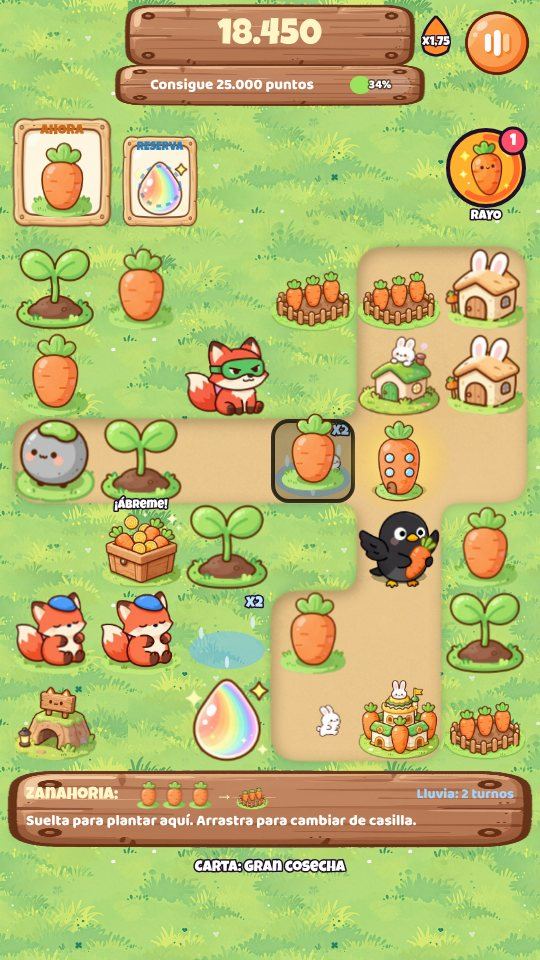
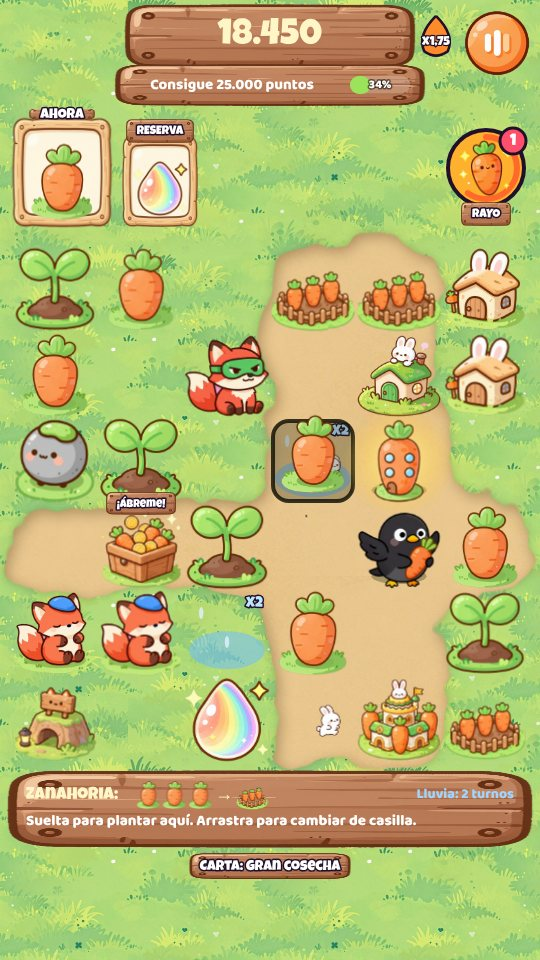
alfa e5f4e06: Fans of Merge: borde del camino ondulado como en Triple Town; rótulos en tablill

diff --git a/alfa/demos/merge/js/pintar.js b/alfa/demos/merge/js/pintar.js
@@ -49,7 +49,7 @@ function mgPintaMarcador(c, t) {
     c.fillStyle = m >= 2 ? '#ff4f2e' : '#ff8a2a'; c.fill(); c.lineWidth = 3.5; c.strokeStyle = OL; c.stroke();
     mgTexto(c, 'x' + fmtV(m), 0, 6, 17, '#fff', 'center', OL); c.restore();
   }
-  if (P.nivel) mgPintaObjNivel(c, t);
+  if (P.nivel) { mgPintaObjNivel(c, t); mgEtiqueta(c, tr('Nivel {n}', { n: P.nivel.id }), 270, 66, 11); }
   else {
   const O = mgObjetivo(), ok = O.de ? clamp((P.pts - O.desde) / (O.de - O.desde), 0, 1) : 1;
   if (!mgImg(c, 'TABLON', 114, 64, 312, 42)) mgPanel(c, 120, 68, 300, 34, 14, MG_PILDORA, null);
@@ -66,20 +66,19 @@ function mgPintaMarcador(c, t) {
   // la pieza actual (también va con el dedo por el tablero)
   const fila = 116;
   if (!mgImg(c, 'MARCO', 8, fila - 4, 108, 120)) mgPanel(c, 12, fila, 100, 112, 20, 'rgba(255,248,230,.94)', OL, 3);
-  mgTexto(c, tr('AHORA'), 62, fila + 15, 14, '#c96a1e', 'center', null);
+  mgEtiqueta(c, tr('AHORA'), 62, fila - 2, 14);
   mgDibujaPieza(c, P.actual, 62, fila + 66 + Math.sin(t * 3) * 2, 82, k);
   let x = 122;
   if (mgTiene('lince')) {
     if (!mgImg(c, 'MARCO', x - 3, fila + 15, 76, 100)) mgPanel(c, x, fila + 18, 70, 94, 16, 'rgba(255,248,230,.8)', OL, 3);
-    mgTexto(c, tr('LUEGO'), x + 35, fila + 32, 12, '#3fa89c', 'center', null);
+    mgEtiqueta(c, tr('LUEGO'), x + 35, fila + 15, 12);
     mgDibujaPieza(c, P.cola, x + 35, fila + 72, 58, k); x += 80;
   }
   P.reserva.forEach((r, i) => {
     if (!mgImg(c, 'MARCO', x - 3, fila + 15, 82, 100)) mgPanel(c, x, fila + 18, 76, 94, 16, r ? 'rgba(220,245,255,.96)' : 'rgba(220,245,255,.7)', OL, 3);
-    mgTexto(c, tr('RESERVA'), x + 38, fila + 32, 12, '#2e7fb8', 'center', null);
+    mgEtiqueta(c, tr('RESERVA'), x + 38, fila + 15, 12);
     if (r) mgDibujaPieza(c, r, x + 38, fila + 72, 60, k);
-    if (P.reservaEspera > 0) { mgPanel(c, x, fila + 18, 76, 94, 16, 'rgba(20,30,10,.45)', null); mgTexto(c, String(P.reservaEspera), x + 38, fila + 70, 34, '#fff'); }
-    else { c.setLineDash([5, 5]); c.beginPath(); c.arc(x + 38, fila + 70, 20, 0, MG_TAU); c.strokeStyle = 'rgba(46,127,184,.55)'; c.lineWidth = 3; c.stroke(); c.setLineDash([]); }
+    if (P.reservaEspera > 0) { mgPanel(c, x + 6, fila + 26, 70, 82, 12, 'rgba(20,30,10,.45)', null); mgTexto(c, String(P.reservaEspera), x + 38, fila + 70, 34, '#fff'); }
     mgBoton('reserva' + i, x, fila + 18, 76, 94); x += 86;
   });
   // el Rayo zanahoria: se llena con las fusiones
@@ -89,15 +88,21 @@ function mgPintaMarcador(c, t) {
   if (MG_IMG.RAYO) { c.globalAlpha = listo ? 1 : 0.5; const g = P.modo === 'rayo' ? 1 + Math.sin(t * 10) * 0.08 : 1; mgImg(c, 'RAYO', bx - 30 * g, by - 30 * g, 60 * g, 60 * g); c.globalAlpha = 1; }
   else mgRayoIcono(c, bx, by, listo ? 1 : 0.45, P.modo === 'rayo' ? Math.sin(t * 10) * 0.15 : 0);
   if (P.cargas) { c.beginPath(); c.arc(bx + 27, by - 27, 13, 0, MG_TAU); c.fillStyle = '#ff4f6d'; c.fill(); c.lineWidth = 3; c.strokeStyle = OL; c.stroke(); mgTexto(c, String(P.cargas), bx + 27, by - 26, 16, '#fff', 'center', null); }
-  mgTexto(c, tr('RAYO'), bx, by + R + 10, 13, '#fff', 'center', OL);
+  mgEtiqueta(c, tr('RAYO'), bx, by + R + 8, 12);
   mgBoton('rayo', bx - R, by - R, R * 2, R * 2 + 16);
   if (P.tirachinas > 0) {
     const tx = 382, ty = fila + 30;
     mgPanel(c, tx, ty, 58, 58, 16, P.modo === 'tirachinas' ? '#ffd84a' : '#ff8a3d', OL, 3);
     if (!mgImg(c, 'TIRACHINAS', tx + 4, ty + 4, 50, 50)) mgTirachinasIcono(c, tx + 29, ty + 29);
-    mgTexto(c, tr('TIRACHINAS'), tx + 29, ty + 70, 11, '#fff', 'center', OL);
+    mgEtiqueta(c, tr('TIRACHINAS'), tx + 29, ty + 66, 10);
     mgBoton('tirachinas', tx, ty, 58, 76);
   }
+}
+// el rótulo de un marco: una tablilla de madera pintada centrada sobre el borde de arriba, con la letra blanca bordeada
+function mgEtiqueta(c, txt, cx, cy, tam) {
+  c.font = `${tam}px ${FONT_D}`; const w = c.measureText(txt).width + 22, h = tam + 12;
+  if (!mgImg(c, 'TABLON', cx - w / 2, cy - h / 2, w, h)) mgPanel(c, cx - w / 2, cy - h / 2, w, h, 8, '#9a6a3c', OL, 2);
+  mgTexto(c, txt, cx, cy + 1, tam, '#fff', 'center', OL);
 }
 function mgRayoIcono(c, x, y, alfa, giro) {
   c.save(); c.translate(x, y); c.rotate(-0.5 + giro); c.globalAlpha = alfa; c.lineJoin = 'round'; c.lineWidth = 3.5; c.strokeStyle = OL;
@@ -113,6 +118,16 @@ function mgTirachinasIcono(c, x, y) {
 }
 
 /* ---------- el tablero: caminos de tierra, piezas, previsión ---------- */
+// Ruido suave (value noise) con semilla: devuelve una función (x, y) → 0..1 que cambia despacio. Sirve para que el borde del camino ondule.
+function mgRuido(semilla) {
+  const h = (x, y) => { let n = (x * 374761393 + y * 668265263 + semilla * 1442695041) | 0; n = Math.imul(n ^ (n >>> 13), 1274126177); return ((n ^ (n >>> 16)) >>> 0) / 4294967296; };
+  const sm = t => t * t * (3 - 2 * t);
+  return (x, y) => {
+    const xi = Math.floor(x), yi = Math.floor(y), fx = sm(x - xi), fy = sm(y - yi);
+    const a = h(xi, yi), b = h(xi + 1, yi), c = h(xi, yi + 1), d = h(xi + 1, yi + 1);
+    return a + (b - a) * fx + (c - a) * fy + (a - b - c + d) * fx * fy;
+  };
+}
 // El dibujo del camino, hecho una vez por partida: cada casilla es un cuadrado de tierra pintada que solo redondea las esquinas
 // que dan a la hierba; donde se toca con otra casilla del camino, sigue recto y se une. Hundido, con el borde difuso y una sombra por dentro.
 function mgCaminoLienzo(libre, k) {
@@ -134,9 +149,16 @@ function mgCaminoLienzo(libre, k) {
   // como en los juegos de este tipo: el camino es orgánico (todas las esquinas redondas, también las de dentro), un poco hundido,
   // con el borde difuso y una sombra suave por dentro, para que se funda con la hierba.
   // La forma: los cuadrados de las casillas, difuminados y vueltos a cortar por la mitad: así se redondea todo por igual.
-  const [masc, m] = capa(); m.filter = bl(cs * 0.11); forma(m, -cs * 0.01); m.fillStyle = '#000'; m.fill('nonzero');
+  const [masc, m] = capa(); m.filter = bl(cs * 0.2); forma(m, cs * 0.02); m.fillStyle = '#000'; m.fill('nonzero');
   const d = m.getImageData(0, 0, W, H), a = d.data;
-  for (let i = 3; i < a.length; i += 4) { const v = (a[i] / 255 - 0.42) / 0.16; a[i] = v <= 0 ? 0 : v >= 1 ? 255 : Math.round(v * v * (3 - 2 * v) * 255); }
+  // el corte no es a la misma altura en todas partes: un ruido suave lo mueve, y el borde sale ondulado e irregular, como tierra pisada
+  const ruido = mgRuido(MG_P.semillaCamino || 1), esc = 1 / (cs * k);
+  for (let i = 3, p = 0; i < a.length; i += 4, p++) {
+    if (a[i] === 0 || a[i] === 255) continue;
+    const px = (p % W) * esc, py = ((p / W) | 0) * esc;
+    const corte = 0.45 + (ruido(px * 1.8, py * 1.8) - 0.5) * 0.55 + (ruido(px * 6, py * 6) - 0.5) * 0.22;
+    const v = (a[i] / 255 - corte) / 0.07; a[i] = v <= 0 ? 0 : v >= 1 ? 255 : Math.round(v * v * (3 - 2 * v) * 255);
+  }
   m.putImageData(d, 0, 0);
   const [lienzo, c] = capa(); c.setTransform(1, 0, 0, 1, 0, 0);
   c.filter = bl(cs * 0.05); c.globalAlpha = 0.18; c.drawImage(masc, 0, 0); c.globalAlpha = 1; c.filter = 'none';   // la hierba se oscurece un poco junto al camino
@@ -218,7 +240,7 @@ function mgPintaTablero(c, t) {
     if (!A) sc *= 1 + Math.sin(t * 2.2 + p.id * 1.7) * 0.025;   // respiran un poco: el tablero está vivo
     if (p.t === 'zorro' || p.t === 'cuervo') mgPintaBicho(c, p, A, cx, cy, cs * 1.04, t);
     else mgDibujaPieza(c, p.t, cx, cy, cs * 1.04 * sc, k, p.s);
-    if (p.t === 'cofre') mgTexto(c, tr('¡Ábreme!'), cx, cy - cs * 0.46 + Math.sin(t * 5) * 2, 12, '#fff', 'center', OL);
+    if (p.t === 'cofre') mgEtiqueta(c, tr('¡Ábreme!'), cx, cy - cs * 0.5 + Math.sin(t * 5) * 2, 11);
   }
   if (P.sel && prev) {   // la pieza, en la casilla, a punto de soltarla
     const [x, y] = P.sel, sube = Math.sin(t * 5) * 3;
@@ -283,7 +305,7 @@ function mgPintaAbajo(c, t) {
   }
   const E = P.evento;
   if (E && !P.modo) mgTexto(c, tr('{e}: {n} turnos', { e: tr(E.nombre), n: E.quedan }), 514, y0 + 20, 14, '#9fd4ff', 'right', null, MG_FB);
-  if (P.cartas.length) { const C = MG_CARTAS.find(x => x.id === P.cartas[0]); mgTexto(c, tr('Carta: {n}', { n: tr(C.nombre) }), 270, y0 + 92, 15, '#fff', 'center', OL); }
+  if (P.cartas.length) { const C = MG_CARTAS.find(x => x.id === P.cartas[0]); mgEtiqueta(c, tr('Carta: {n}', { n: tr(C.nombre) }), 270, y0 + 90, 14); }
 }
 function mgDescripcion(tipo) {
   const T = mgTipoDe(tipo);

diff --git a/alfa/index.html b/alfa/index.html
@@ -10,10 +10,10 @@
 <link rel="preconnect" href="https://fonts.googleapis.com">
 <link rel="preconnect" href="https://fonts.gstatic.com" crossorigin>
 <link rel="stylesheet" href="https://fonts.googleapis.com/css2?family=Baloo+2:wght@600;700;800&family=Luckiest+Guy&display=swap">
-<link rel="stylesheet" href="core/css/base.css?v=6039b30">
-<link rel="stylesheet" href="biblioteca/tienda.css?v=6039b30">
-<link rel="stylesheet" href="novedades/ventana.css?v=6039b30">
-<link rel="stylesheet" href="biblioteca/votos.css?v=6039b30">
+<link rel="stylesheet" href="core/css/base.css?v=e5f4e06">
+<link rel="stylesheet" href="biblioteca/tienda.css?v=e5f4e06">
+<link rel="stylesheet" href="novedades/ventana.css?v=e5f4e06">
+<link rel="stylesheet" href="biblioteca/votos.css?v=e5f4e06">
 <style>
   /* la entrada de la web: una tarjeta por juego, con los colores y las letras de core */
   body { overflow: auto; touch-action: auto; align-items: flex-start; background-repeat: no-repeat; background-attachment: fixed; }
@@ -61,7 +61,7 @@
 </style>
 </head>
 <body>
-<script src="menu.js?v=6039b30" data-base="" data-core="1" data-pagina=""></script>
+<script src="menu.js?v=e5f4e06" data-base="" data-core="1" data-pagina=""></script>
 <div class="nov-fondo" id="novedades" hidden>
   <div class="nov-caja" role="dialog" aria-modal="true" aria-labelledby="nov-titulo">
     <div class="nov-cabeza"><h2 class="ol" id="nov-titulo">NOVEDADES</h2><p id="nov-sub"></p></div>
@@ -333,8 +333,8 @@
   </section>
   <p class="note" id="pie-fansof">Fans Of™ · © 2026 Arkioner y Pepins · MicroBlizz · Todos los derechos reservados</p>
 </main>
-<script src="core/js/nucleo.js?v=0-a658.6039b30"></script>
-<script src="core/js/novedades.js?v=6039b30"></script>
+<script src="core/js/nucleo.js?v=0-a659.e5f4e06"></script>
+<script src="core/js/novedades.js?v=e5f4e06"></script>
 <script>
 // La cuenta de la web es la misma de los juegos (core/js/sistema/cuenta.js, mismo navegador = misma sesión). Aquí no hay partida que subir.
 const AJUSTES = { id: 'web', guardado: 'fansof-web' }, SAVE_KEY = AJUSTES.guardado, SAVE = {};
@@ -343,7 +343,7 @@ const HOOKS = {};
 function hook(name, fn) { (HOOKS[name] = HOOKS[name] || []).push(fn); }
 function fire(name, ...a) { let out = ''; for (const fn of HOOKS[name] || []) { const r = fn(...a); if (typeof r === 'string') out += r; } return out; }
 </script>
-<script src="core/js/sistema/cuenta.js?v=6039b30"></script>
+<script src="core/js/sistema/cuenta.js?v=e5f4e06"></script>
 <script>NUCLEO.idiomaSolo({ en: ['core/idioma/en-raiz.js', 'novedades/en.js', 'biblioteca/en.js','games/rumble/idioma/en-7.js', 'games/td/idioma/en-2.js', 'games/survivors/idioma/en.js', 'games/crush/idioma/en-raiz.js', 'games/jump/idioma/en-raiz.js', 'games/taxi/idioma/en-raiz.js', 'games/dark/idioma/en-raiz.js', 'games/nova/idioma/en-raiz.js', 'demos/beams/idioma/en-raiz.js', 'demos/snakes/idioma/en-raiz.js', 'demos/merge/idioma/en-raiz.js', 'demos/swipe/idioma/en-raiz.js', 'demos/vikings/idioma/en-raiz.js', 'demos/goose/idioma/en-raiz.js', 'demos/asalto/idioma/en-raiz.js', 'demos/auto/idioma/en-raiz.js', 'games/island/idioma/en-raiz.js', 'demos/rumble-3d/idioma/en-raiz.js', 'demos/roguelite/idioma/en-raiz.js', 'demos/tactics-advance/idioma/en-raiz.js', 'games/rouflage/idioma/en-raiz.js', 'demos/dungeons/idioma/en-raiz.js', 'games/karts/idioma/en-raiz.js', 'demos/recruit/idioma/en-raiz.js', 'demos/terminal-shock/idioma/en-raiz.js', 'games/ratkov/idioma/en-raiz.js'] })</script>
 <script>
 // La versión y las novedades salen de los archivos de cada juego, así que esta página nunca se queda atrás.
@@ -369,14 +369,14 @@ const fail = id => () => {
 };
 
 </script>
-<script src="core/js/proximamente.js?v=6039b30"></script>
-<script src="novedades/ventana.js?v=6039b30"></script>
-<script src="biblioteca/tienda.js?v=6039b30"></script>
-<script src="core/js/sistema/beta.js?v=6039b30"></script>
-<script src="biblioteca/cuenta-web.js?v=6039b30"></script>
-<script src="biblioteca/votos.js?v=6039b30"></script>
-<script src="biblioteca/alfa.js?v=6039b30"></script>
-<script src="core/js/sistema/analitica.js?v=6039b30"></script>
-<script src="pie.js?v=6039b30" defer></script>
+<script src="core/js/proximamente.js?v=e5f4e06"></script>
+<script src="novedades/ventana.js?v=e5f4e06"></script>
+<script src="biblioteca/tienda.js?v=e5f4e06"></script>
+<script src="core/js/sistema/beta.js?v=e5f4e06"></script>
+<script src="biblioteca/cuenta-web.js?v=e5f4e06"></script>
+<script src="biblioteca/votos.js?v=e5f4e06"></script>
+<script src="biblioteca/alfa.js?v=e5f4e06"></script>
+<script src="core/js/sistema/analitica.js?v=e5f4e06"></script>
+<script src="pie.js?v=e5f4e06" defer></script>
 </body>
 </html>

diff --git a/alfa/demos/merge/js/pintar-niveles.js b/alfa/demos/merge/js/pintar-niveles.js
@@ -7,18 +7,17 @@ function mgPintaTurnos(c, t) {
   if (!mgImg(c, 'ESTRELLA', -42, -42, 84, 84)) { c.beginPath(); c.arc(0, 0, 34, 0, MG_TAU); c.fillStyle = pocos ? '#ff5a4f' : '#ff9a3c'; c.fill(); c.lineWidth = 4; c.strokeStyle = OL; c.stroke(); }
   mgTexto(c, String(Math.max(0, P.movs)), 0, 3, 30, '#fff', 'center', OL);
   c.restore();
-  mgTexto(c, tr('TURNOS'), 64, 86, 12, '#fff', 'center', OL);
+  mgEtiqueta(c, tr('TURNOS'), 64, 84, 11);
 }
 // el objetivo del nivel: una píldora por objetivo (hasta dos), con su cuenta y una marca cuando está hecho
 function mgPintaObjNivel(c) {
   const N = MG_P.nivel, n = N.obj.length, w = n > 1 ? 196 : 300, x0 = n > 1 ? 122 : 120;
-  mgTexto(c, tr('Nivel {n}', { n: N.id }), 270, 70, 13, '#fff6c8', 'center', 'rgba(0,0,0,.5)', MG_FB);
   N.obj.forEach((o, i) => {
     const [a, b] = mgObjValor(o), hecho = a >= b, x = x0 + i * (w + 6);
     if (!mgImg(c, 'TABLON', x - 4, 76, w + 8, 40) || hecho) mgPanel(c, x, 80, w, 32, 14, hecho ? 'rgba(60,140,40,.9)' : MG_PILDORA, null);
-    const txt = o.puntos ? fmt(a) + ' / ' + fmt(b) : a + ' / ' + b;
-    if (o.crear) mgDibujaPieza(c, o.crear, x + 18, 95, 30, mgK());
-    mgTexto(c, (o.crear ? '' : mgObjTexto(o) + ': ') + txt, x + (o.crear ? 38 : 10), 97, 14, '#fff', 'left', null, MG_FB);
+    const icono = o.crear || (o.dormir ? 'dormido' : null), txt = o.puntos ? tr('PUNTOS') + ' ' + fmt(a) + ' / ' + fmt(b) : a + ' / ' + b;
+    if (icono) mgDibujaPieza(c, icono, x + 20, 95, 32, mgK());
+    mgTexto(c, txt, icono ? x + 42 : x + w / 2, 97, 14, '#fff', icono ? 'left' : 'center', null, MG_FB);
     if (hecho) mgTexto(c, '✓', x + w - 16, 96, 18, '#c8ff8a', 'center', null);
   });
 }

diff --git a/alfa/games/rouflage/index.html b/alfa/games/rouflage/index.html
@@ -10,7 +10,7 @@
 <link rel="preconnect" href="https://fonts.googleapis.com">
 <link rel="preconnect" href="https://fonts.gstatic.com" crossorigin>
 <link rel="stylesheet" href="https://fonts.googleapis.com/css2?family=Baloo+2:wght@600;700;800&family=Luckiest+Guy&display=swap">
-<script src="../../core/js/nucleo.js?v=0.2.63-a658.6039b30"></script>
+<script src="../../core/js/nucleo.js?v=0.2.63-a659.e5f4e06"></script>
 <script>NUCLEO.estilos('../../core/css/base.css', '../../core/css/menus.css', '../../core/css/menus-extra.css')</script>
 <script>NUCLEO.estilos('estilo.css', 'estilo-taller.css', 'estilo-pantallas.css', 'estilo-pvp.css', 'estilo-armario.css', 'estilo-menus.css', 'estilo-misiones.css', 'estilo-escenario.css', 'estilo-votos.css', 'estilo-gacha.css', 'estilo-compra.css', 'estilo-fin.css', 'estilo-talentos.css', 'estilo-chat.css', 'estilo-titulo.css', 'estilo-barra.css', 'estilo-sala-viva.css', 'estilo-obra.css', 'estilo-ayuda.css', 'estilo-carga.css')</script>      <!-- la intro, la última: pisa el #carga de estilo.css (antes iba en línea dentro de #carga) -->
 </head>

diff --git a/alfa/games/karts/index.html b/alfa/games/karts/index.html
@@ -8,7 +8,7 @@
 <meta name="description" content="Fans of Karts (juego): carreras de karts en pixel art de consola portátil con los líderes de Fans of Rumble. Tres pistas, seis pilotos, objetos con mala idea y Microblizz, que ha comprado la carrera.">
 <link rel="icon" type="image/png" href="img/icon-192.png">
 <link rel="apple-touch-icon" href="img/icon-192.png">
-<script src="../../core/js/nucleo.js?v=0.7.15-a658.6039b30"></script>
+<script src="../../core/js/nucleo.js?v=0.7.15-a659.e5f4e06"></script>
 <script>NUCLEO.estilos('../../core/css/base.css', '../../core/css/menus.css', '../../core/css/menus-tienda.css', '../../core/css/menus-extra.css', 'css/tienda.css', 'css/pvp.css')</script>
 <link rel="stylesheet" href="https://fonts.googleapis.com/css2?family=Baloo+2:wght@600;700;800&family=Luckiest+Guy&display=swap">
 <style>

diff --git a/alfa/games/dark/index.html b/alfa/games/dark/index.html
@@ -12,7 +12,7 @@
 <link rel="stylesheet" href="https://fonts.googleapis.com/css2?family=Baloo+2:wght@600;700;800&family=Luckiest+Guy&family=Press+Start+2P&family=Pixelify+Sans:wght@400;600;700&display=swap">
 <link rel="stylesheet" href="css/dark.css?v=0.2.4">
 <!-- Prototipo: no usa NUCLEO (tiene su propia partida guardada). Carga de core el arte, la música, los efectos y las cifras del Rumble.
-     VERSIÓN para desplegar.py (que la busca así): nucleo.js?v=0.2.7-a658.6039b30' (aquí solo se anota; súbela junto al ?v= de los scripts). -->
+     VERSIÓN para desplegar.py (que la busca así): nucleo.js?v=0.2.7-a659.e5f4e06' (aquí solo se anota; súbela junto al ?v= de los scripts). -->
 </head>
 <body>
 <canvas id="cv" aria-label="Mazmorra"></canvas>

diff --git a/alfa/games/rumble/index.html b/alfa/games/rumble/index.html
@@ -16,7 +16,7 @@
 <link rel="preconnect" href="https://fonts.gstatic.com" crossorigin>
 <link rel="stylesheet" href="https://fonts.googleapis.com/css2?family=Baloo+2:wght@600;700;800&family=Luckiest+Guy&display=swap">
 <!-- core/js/nucleo.js carga lo común y el juego. LA VERSIÓN SE ESCRIBE SOLO AQUÍ, en su ?v= -->
-<script src="../../core/js/nucleo.js?v=0.9.158-a658.6039b30"></script>
+<script src="../../core/js/nucleo.js?v=0.9.158-a659.e5f4e06"></script>
 <script>NUCLEO.estilos('../../core/css/menus.css', 'css/estilos-partida.css', 'css/estilos-extra.css', 'css/arena.css', '../../core/css/biblioteca.css', 'css/facciones-y-jefes.css', '../../core/css/clasificacion.css', 'css/frases.css', 'css/mitica.css', 'css/paletas.css')</script>
 
 </head>

diff --git a/alfa/games/jump/index.html b/alfa/games/jump/index.html
@@ -12,7 +12,7 @@
 <link rel="preconnect" href="https://fonts.gstatic.com" crossorigin>
 <link rel="stylesheet" href="https://fonts.googleapis.com/css2?family=Baloo+2:wght@600;700;800&family=Luckiest+Guy&display=swap">
 <!-- ?v= es la versión del juego (la misma en la web y en la app): súbela al publicar y pon su entrada en js/novedades.js -->
-<script src="../../core/js/nucleo.js?v=0.3.16-a658.6039b30"></script>
+<script src="../../core/js/nucleo.js?v=0.3.16-a659.e5f4e06"></script>
 <script>NUCLEO.estilos('../../core/css/base.css', '../../core/css/menus.css')</script>
 <style>
 /* Fans of Jump: un solo canvas a la resolución real de la pantalla, con los dibujos 3D. El mundo mide unos 200 de ancho y se

diff --git a/alfa/games/decks/index.html b/alfa/games/decks/index.html
@@ -15,7 +15,7 @@
 <link rel="preconnect" href="https://fonts.gstatic.com" crossorigin>
 <link rel="stylesheet" href="https://fonts.googleapis.com/css2?family=Baloo+2:wght@600;700;800&family=Luckiest+Guy&display=swap">
 <!-- core/js/nucleo.js carga lo común y el juego. LA VERSIÓN SE ESCRIBE SOLO AQUÍ, en su ?v= -->
-<script src="../../core/js/nucleo.js?v=0.2.21-a658.6039b30"></script>
+<script src="../../core/js/nucleo.js?v=0.2.21-a659.e5f4e06"></script>
 <script>NUCLEO.estilos('../../core/css/base.css', '../../core/css/menus.css', 'css/decks.css', 'css/decks-reunion.css', 'css/decks-anim.css', 'css/decks-campana.css', 'css/decks-lideres.css')</script>
 </head>
 <body>

diff --git a/alfa/demos/goose/index.html b/alfa/demos/goose/index.html
@@ -10,7 +10,7 @@
 <link rel="preconnect" href="https://fonts.gstatic.com" crossorigin>
 <link rel="stylesheet" href="https://fonts.googleapis.com/css2?family=Pixelify+Sans:wght@500;700&family=Pirata+One&display=swap">
 <!-- ?v= es la versión de la demo: súbela al publicar -->
-<script src="../../core/js/nucleo.js?v=0.3.0-a658.6039b30"></script>
+<script src="../../core/js/nucleo.js?v=0.3.0-a659.e5f4e06"></script>
 <script>NUCLEO.estilos('../../core/css/base.css', '../../core/css/menus.css')</script>
 <style>
 /* Fans of Goose: un solo canvas en vertical, a la resolución real del móvil. El mundo mide 200 de ancho. */

diff --git a/alfa/games/ratkov/index.html b/alfa/games/ratkov/index.html
@@ -13,7 +13,7 @@
 <link rel="preconnect" href="https://fonts.gstatic.com" crossorigin>
 <link rel="stylesheet" href="https://fonts.googleapis.com/css2?family=VT323&family=Russo+One&display=swap">
 <script src="https://cdnjs.cloudflare.com/ajax/libs/three.js/r128/three.min.js"></script>
-<script src="../../core/js/nucleo.js?v=0.2.29-a658.6039b30"></script>
+<script src="../../core/js/nucleo.js?v=0.2.29-a659.e5f4e06"></script>
 <script>NUCLEO.estilos('../../core/css/base.css', '../../core/css/menus.css')</script>
 <link rel="stylesheet" href="estilo.css?v=0.2.3">
 <link rel="stylesheet" href="estilo-refugio.css?v=0.2.3">

diff --git a/alfa/games/survivors/index.html b/alfa/games/survivors/index.html
@@ -15,7 +15,7 @@
 <link rel="preconnect" href="https://fonts.gstatic.com" crossorigin>
 <link rel="stylesheet" href="https://fonts.googleapis.com/css2?family=Baloo+2:wght@600;700;800&family=Luckiest+Guy&display=swap">
 <!-- core/js/nucleo.js carga lo común y el juego. LA VERSIÓN SE ESCRIBE SOLO AQUÍ, en su ?v= -->
-<script src="../../core/js/nucleo.js?v=0.1.71-a658.6039b30"></script>
+<script src="../../core/js/nucleo.js?v=0.1.71-a659.e5f4e06"></script>
 <script>NUCLEO.estilos('../../core/css/base.css', '../../core/css/menus.css', 'css/survivors.css', '../../core/css/biblioteca.css')</script>
 </head>
 <body>
